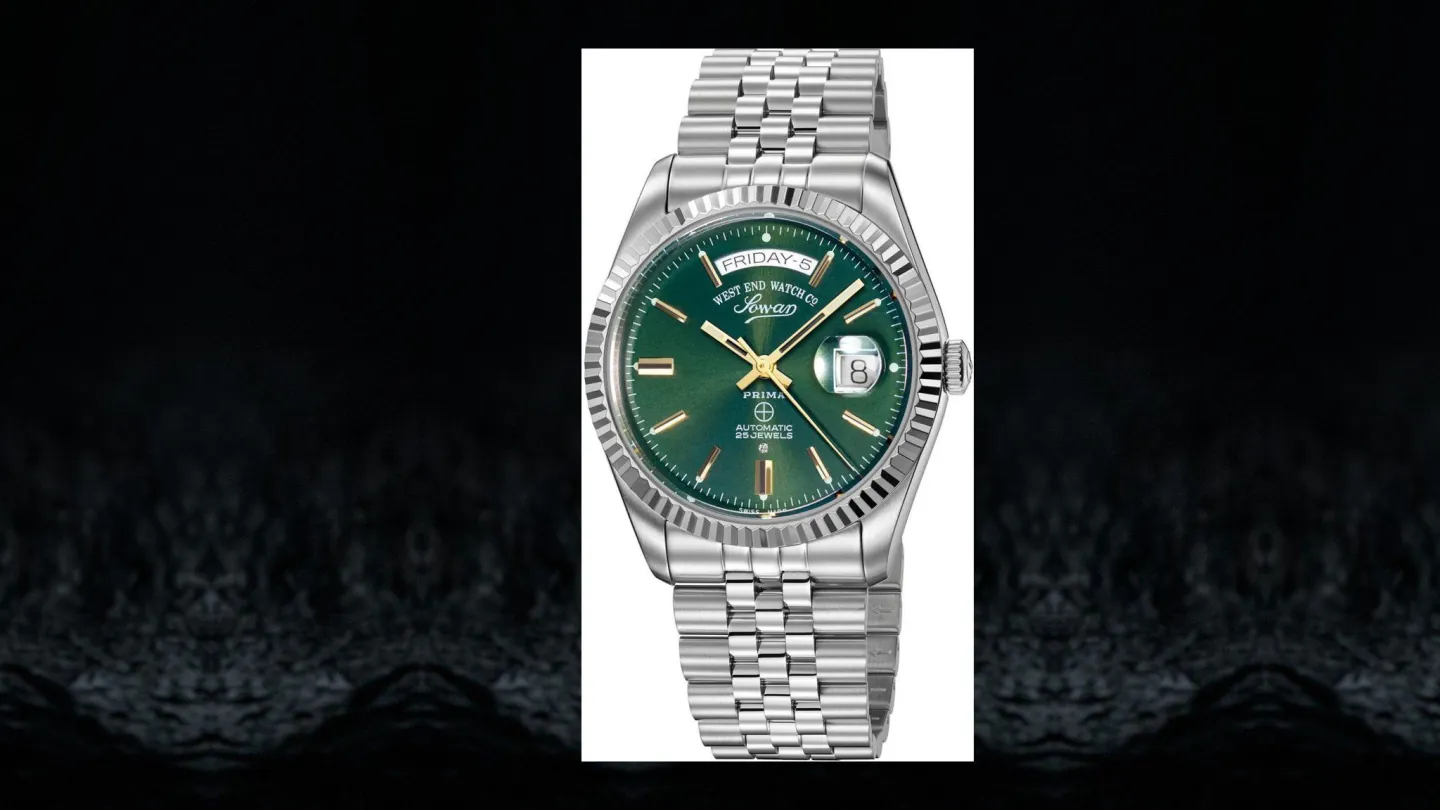
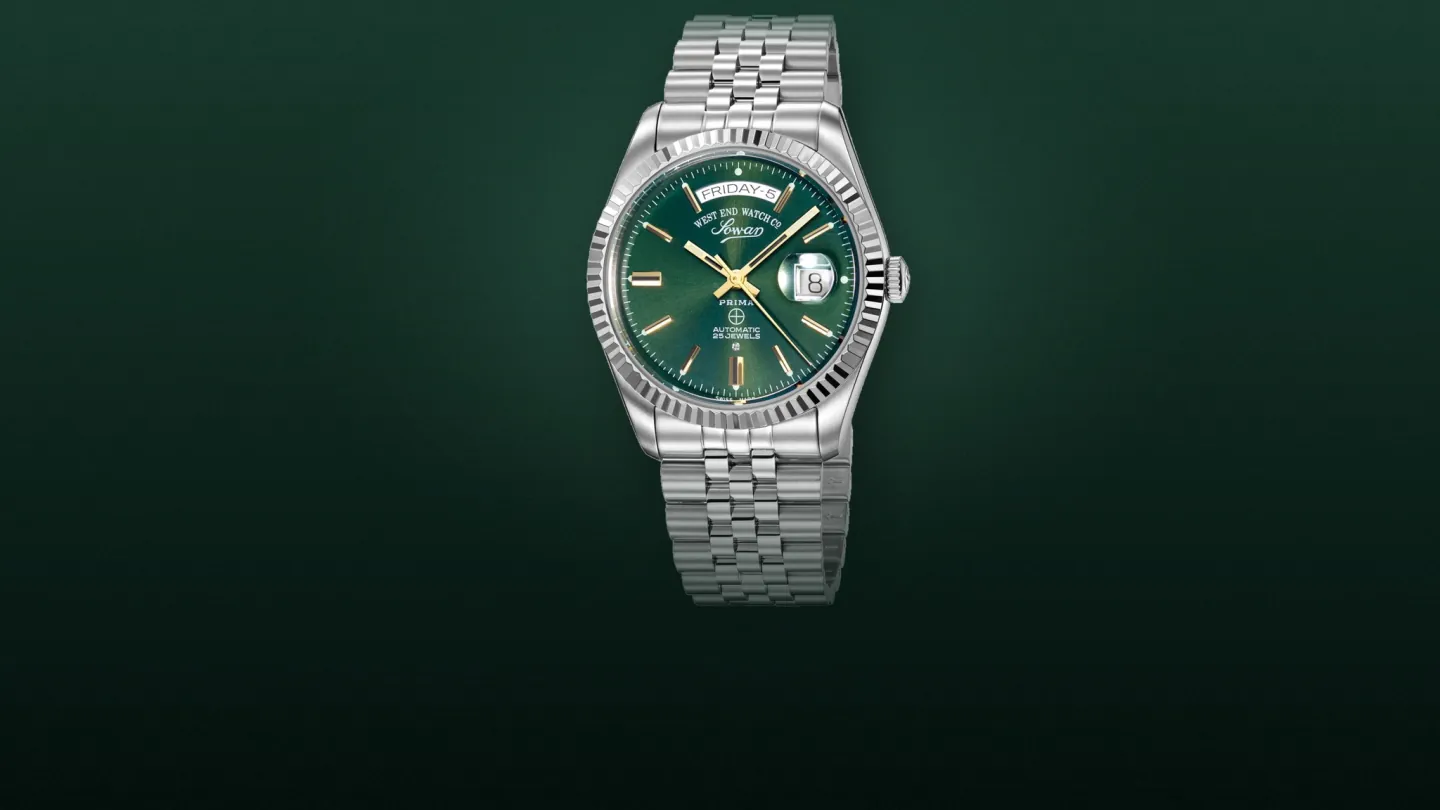
Refactor code structure for improved readability and maintainability

diff --git a/frontend/src/i18n/ru.ts b/frontend/src/i18n/ru.ts
@@ -83,8 +83,8 @@ const ru: Dictionary = {
     craft_finishing_body:
       'Ровная щётка и полированные фаски, ловящие свет одной чистой линией. Здесь мануфактура перестаёт соревноваться в характеристиках.',
     statement: 'Time, Refined.',
-    statementAlt: 'Стальные часы West End Watch Co. Sowar при низком свете',
-    heroImageAlt: 'Часы West End Watch Co. Sowar с зеленым циферблатом на тёмном камне',
+    statementAlt: 'Турбийон Saint Honoré Monceau в стали, съёмка при низком свете',
+    heroImageAlt: 'Часы West End Watch Co. Sowar: зелёный циферблат и стальной браслет на глубоком зелёном фоне',
     heroTitle: 'SwissWatch Premium',
     heroEyebrow: 'Искусство часового дела',
     heroSub: 'Подлинные часы от именитых часовых домов.',

diff --git a/frontend/src/i18n/uz.ts b/frontend/src/i18n/uz.ts
@@ -82,8 +82,8 @@ const uz: Dictionary = {
     craft_finishing_body:
       'To‘g‘ri yotgan cho‘tka izlari, yorug‘likni bitta toza chiziqda ushlaydigan sayqallangan qirralar. Pardoz — manufaktura endi texnik ko‘rsatkichlar bilan raqobatlashmaydigan joy.',
     statement: 'Time, Refined.',
-    statementAlt: 'Past yorug‘likda suratga olingan po‘lat korpusli West End Watch Co. Sowar soati',
-    heroImageAlt: 'Qorong‘i tosh ustida yashil siferblatli West End Watch Co. Sowar soati',
+    statementAlt: 'Past yorug‘likda suratga olingan po‘lat korpusli Saint Honoré Monceau turbiyoni',
+    heroImageAlt: 'To‘q yashil fonda yashil siferblatli, po‘lat brasletli West End Watch Co. Sowar soati',
     heroTitle: 'SwissWatch Premium',
     heroEyebrow: 'Soatsozlik san’ati',
     heroSub: 'Nufuzli soatsozlik uylaridan asl soatlar.',

diff --git a/frontend/src/i18n/en.ts b/frontend/src/i18n/en.ts
@@ -80,8 +80,8 @@ const en = {
     craft_finishing_body:
       'Brushing that runs true, polished chamfers that catch light in one clean line. Finishing is where a manufacture stops competing on specification.',
     statement: 'Time, Refined.',
-    statementAlt: 'The West End Watch Co. Sowar in steel, photographed in low light',
-    heroImageAlt: 'The West End Watch Co. Sowar with a green dial on a dark stone ground',
+    statementAlt: 'The Saint Honoré Monceau tourbillon in steel, photographed in low light',
+    heroImageAlt: 'The West End Watch Co. Sowar, its green dial and steel bracelet lit against a deep green ground',
     heroTitle: 'SwissWatch Premium',
     heroEyebrow: 'The Art of Watchmaking',
     heroSub: 'Authentic timepieces from distinguished watchmakers.',
